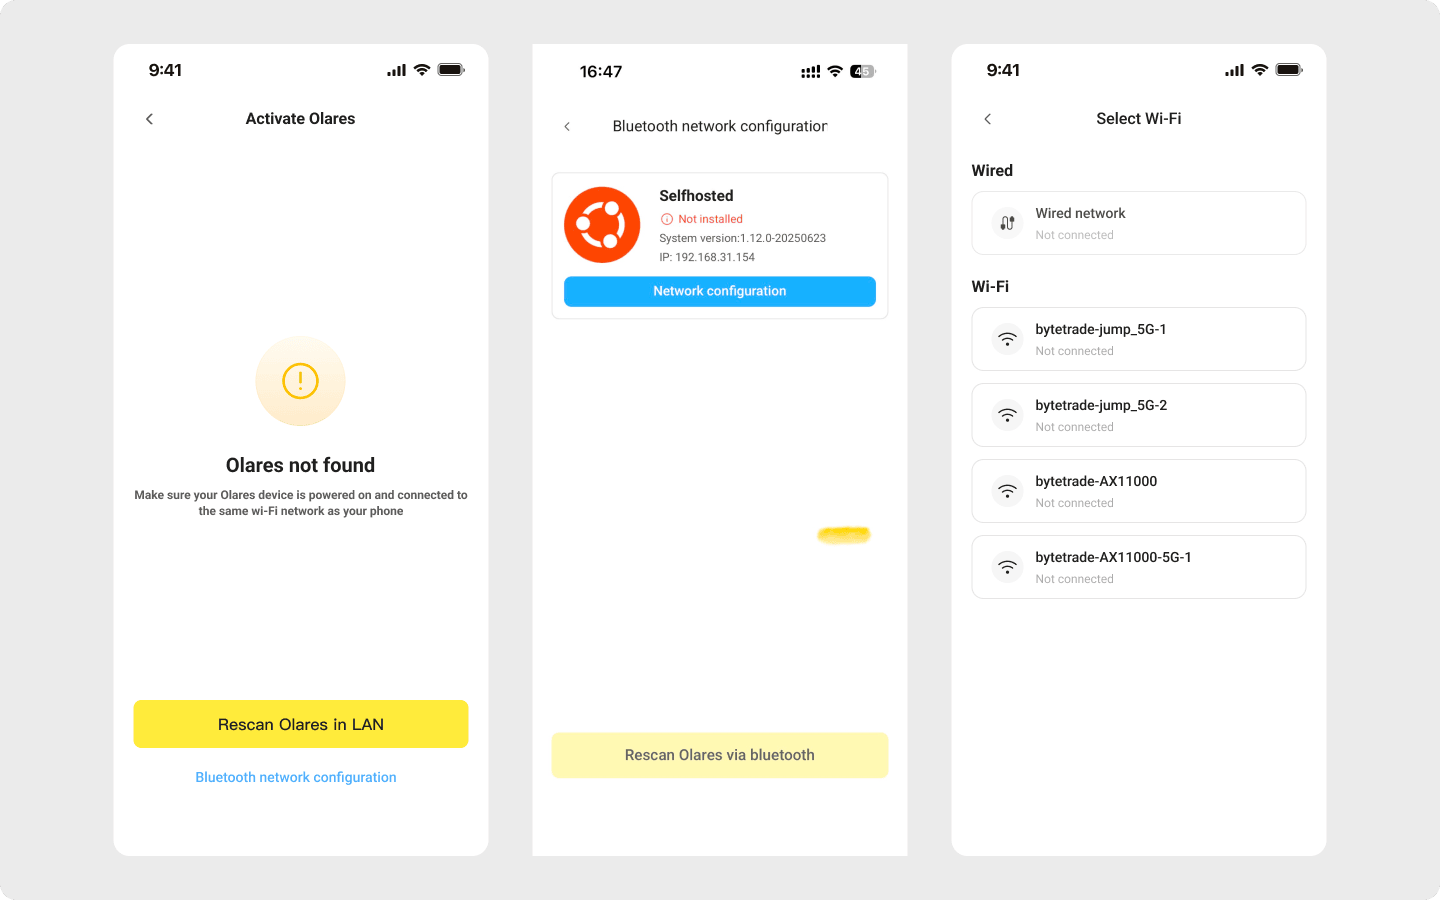
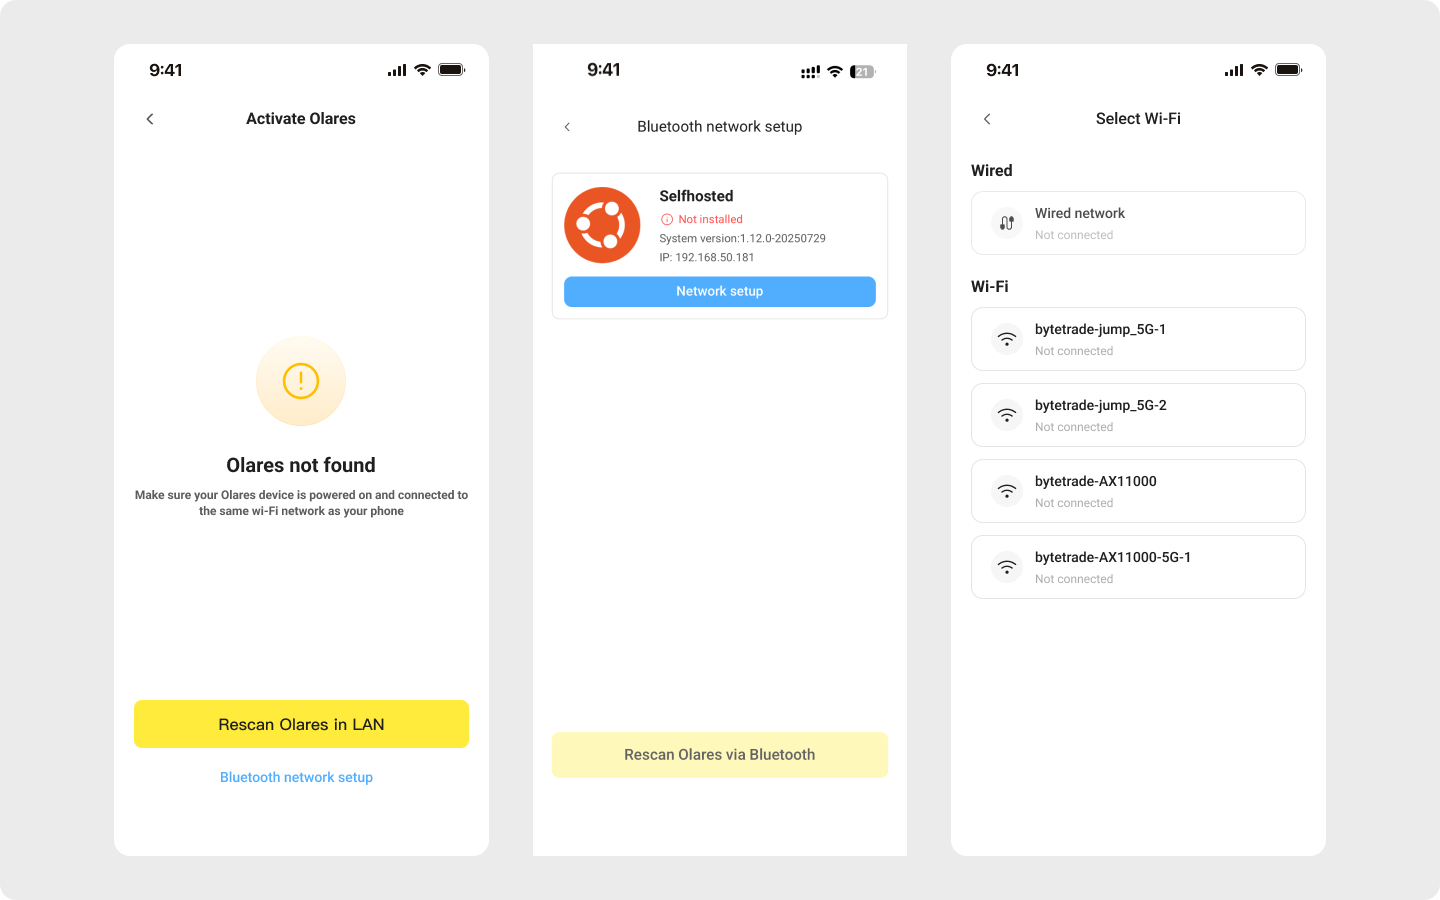
docs: batch update images and outdated info for Settings (#1649)
* docs: batch update images and outdated info for Settings

* fix links

diff --git a/docs/manual/olares/settings/remote-access.md b/docs/manual/olares/settings/remote-access.md
@@ -6,19 +6,7 @@ description: Learn how to configure VPN on Olares using Settings, covering VPN e
 
 The [LarePass VPN](../../larepass/private-network.md) provides secure remote access to your Olares device, even when you're on a different network or at a remote location. Olares' Settings app offers advanced configurations to tailor VPN access to your specific needs. Here, you can enforce VPN connections, enable SSH access over VPN, or route traffic through custom ports.
 
-## Enforce access using VPN
-
-To ensure that all traffic to your private Olares applications is encrypted and routed securely, you can enforce VPN access. This ensures that connections to your Olares always go through the LarePass VPN, regardless of the network or device used. Enabling this mode will block accesses to Olares via reverse proxy. 
-
-To enable the enforced VPN mode:
-
-1. Enable VPN connections on at least two devices using LarePass (typically a computer and a mobile phone) with LarePass installed. For detailed instructions, see [Enable VPN on LarePass](/manual/larepass/private-network.md).
-2. Open Settings app from the Dock or Launchpad.
-3. Click on your profile picture in the top-left corner, and scroll down to **Security** settings.
-4. Turn on the switch for **Enforce VPN access to private entrance**.
-
-When successful, you'll see a confirmation message at the bottom of the screen.
-
+![VPN](/images/manual/olares/vpn.png#bordered)
 
 ## Allow SSH connections via VPN
 This enables SSH access to your Olares device through the LarePass VPN, even when you are in a different network or working remotely.
@@ -26,12 +14,24 @@ This enables SSH access to your Olares device through the LarePass VPN, even whe
 1. Open the Settings app, and select **System** > **VPN**.
 2. Toggle on **Allow SSH Access via VPN**. Port **22** (SSH) is automatically added to the configuration.
 
-   ![SSH via VPN](/images/manual/olares/ssh-via-vpn.png#bordered)
 ## Allow subnet routing
 This feature allows you to access other devices in the same local network as your Olares through the VPN.
 
 1. Open the Settings app, and select **System** > **VPN**.
 2. Toggle on **Enable subnet routes**.
+
+## Enforce access using VPN
+
+To ensure that all traffic to your private Olares applications is encrypted and routed securely, you can enforce VPN access. This ensures that connections to your Olares always go through the LarePass VPN, regardless of the network or device used. Enabling this mode will block accesses to Olares via reverse proxy.
+
+To enable the enforced VPN mode:
+
+1. Enable VPN connections on at least two devices using LarePass (typically a computer and a mobile phone) with LarePass installed. For detailed instructions, see [Enable VPN on LarePass](/manual/larepass/private-network.md).
+2. In Olares, navigate to **Settings** > **VPN**.
+3. Toggle on **Enforce VPN access to private entrance**.
+
+When successful, you'll see a confirmation message at the bottom of the screen.
+
 
 ## Configure ACL rules for port access
 After enabling subnet routing, you can further configure ACL (Access Control List) rules to allow traffic to specific ports based on the services you want to access.
@@ -40,7 +40,5 @@ For example, to access a Windows server via Remote Desktop:
 1. Click <i class="material-symbols-outlined">add</i> to open the **Add ACL** dialog.
 2. Enter `3389` (default port for Remote Desktop Protocol), and click **Confirm**.
 3. Click **Apply** to apply changes.
-
-   ![Add ACL port](/images/manual/olares/add-acl-port.png#bordered)
 
 Now you can use Windows Remote Desktop to access the Windows server in the same LAN as Olares.

diff --git a/docs/zh/manual/olares/settings/remote-access.md b/docs/zh/manual/olares/settings/remote-access.md
@@ -6,17 +6,7 @@ description: 了解如何使用设置在 Olares 上配置 VPN，包括强制 VPN
 
 [LarePass 专用网络](../../larepass/private-network.md)为你的 Olares 提供安全的远程访问，即使您身处不同网络或远程位置。Olares 的设置应用为专用网络提供了高级配置，以满足你的特定需求。在这里，您可以强制应用使用专用网络连接、通过专用网络远程实现 SSH 访问，或通过自定义端口路由流量。
 
-## 强制使用专用网络
-
-为确保安全性，Olares 支持强制使用专用网络，这样会要求所有连接到 Olares 应用的流量均通过专用网络。打开此模式会禁用其他通过反向代理的外部访问流量。
-
-启用强制专用网络模式的方法：
-
-1. 先在两台设备的 LarePass 上（建议一台电脑和一部手机）上开启专用网络。参考[开启专用网络](../../larepass/private-network.md#在-larepass-中启用专用网络)。
-2. 打开设置应用，点击左上角的个人头像，滚动至安全设置。
-3. 打开强制通过 VPN 访问私有入口开关。
-
-启用成功后，屏幕底部会显示确认消息。
+![VPN](/images/zh/manual/olares/vpn.png#bordered)
 
 ## 允许通过专用网络建立 SSH 连接
 启用此功能后，即使在不同网络或远程工作时，也可以通过 LarePass 专用网络使用 SSH 访问 Olares 设备。
@@ -24,13 +14,23 @@ description: 了解如何使用设置在 Olares 上配置 VPN，包括强制 VPN
 1. 打开设置应用，选择**系统** > **VPN**。
 2. 开启**允许通过 VPN 进行 SSH 连接**。端口 **22**（SSH）会自动添加到配置中。
 
-   ![通过 VPN 使用 SSH](/images/zh/manual/tasks/ssh-via-vpn.png#bordered)
-
 ## 允许子网路由
 启用此功能后，你可以访问与 Olares 位于同一局域网的其他设备。
 
 1. 打开设置应用，选择**系统** > **VPN**。
 2. 开启**允许子网路由**。
+
+## 强制使用专用网络
+
+为确保安全性，Olares 支持强制使用专用网络，这样会要求所有连接到 Olares 应用的流量均通过专用网络。打开此模式会禁用其他通过反向代理的外部访问流量。
+
+启用强制专用网络模式的方法：
+
+1. 先在两台设备的 LarePass 上（建议一台电脑和一部手机）上开启专用网络。参考[开启专用网络](../../larepass/private-network.md#在-larepass-中启用专用网络)。
+2. 在 Olares 里，打开**设置** > **VPN**。
+3. 打开**强制通过 VPN 访问私有入口**开关。
+
+启用成功后，屏幕底部会显示确认消息。
 
 ## 配置端口访问的访问控制规则
 启用子网路由后，你可以通过配置访问控制列表（ACL）规则来允许访问特定端口，以便使用所需的网络服务。
@@ -39,7 +39,5 @@ description: 了解如何使用设置在 Olares 上配置 VPN，包括强制 VPN
 1. 点击 <i class="material-symbols-outlined">add</i> 打开**添加 ACL**对话框。
 2. 输入 `3389`（远程桌面协议的默认端口），然后点击**确认**。
 3. 点击**应用**使更改生效。
-
-   ![添加 ACL 端口](/images/zh/manual/tasks/add-acl-port.png#bordered)
 
 完成配置后，你就可以使用 Windows 远程桌面来访问与 Olares 位于同一局域网的 Windows 服务器了。

diff --git a/docs/manual/larepass/manage-olares.md b/docs/manual/larepass/manage-olares.md
@@ -78,22 +78,22 @@ If your Olares device moves to a different network:
 
 ### Set Wi-Fi via Bluetooth
 
-If you can't connect your Olares to a wired network during activation, or if Olares is on a different wired network than your phone, LarePass won't be able to find it. This can prevent you from completing activation or device management. In such cases, use the **Bluetooth network configuration** feature to connect your Olares to your phone's Wi-Fi network.
+If you can't connect your Olares to a wired network during activation, or if Olares is on a different wired network than your phone, LarePass won't be able to find it. This can prevent you from completing activation or device management. In such cases, use the **Bluetooth network setup** feature to connect your Olares to your phone's Wi-Fi network.
  ![Bluetooth network](/images/manual/larepass/bluetooth-network.png)
 
-1. On the **Olares not found** page, tap the **Bluetooth network configuration** option. LarePass will use your phone's Bluetooth to scan for the nearby Olares device that match your current Olares ID.
-2. When your device is found, tap **Network configuration**.
-3. From the list of wireless networks available to your Olares, tap the Wi-Fi network your phone is connected to. If it's password-protected, enter the password and tap **Confirm**.
+1. On the **Olares not found** page, tap the **Bluetooth network setup** option. LarePass will use your phone's Bluetooth to scan for the nearby Olares device.
+2. When your device appears in the list, tap **Network setup**.
+3. Select the Wi-Fi network your phone is currently connected to. If it's password-protected, enter the password and tap **Confirm**.
 
     ::: tip Note
-    If you select a Wi-Fi network different from your phone's, LarePass will still be unable to recognize your Olares device after it connects.
+    If you select a Wi-Fi network different from the one your phone is on, LarePass won't be able to detect your Olares device after it connects.
     :::
 
-4. Olares will begin the network switching process. You'll see a success message when it's complete. If you return to the Bluetooth network setup page, you'll see that Olares' IP address has changed to your phone's Wi-Fi subnet. 
+4. Olares will start switching the network.Once the process is complete, a success message will appear. If you return to the Bluetooth network setup page, you'll see that Olares' IP address has changed to your phone's Wi-Fi subnet. 
    ::: tip Note
    The process takes longer if your Olares was activated earlier as the network switch affects more services.
    :::
-5. Go back to the device scan page, and you will now be able to discover your Olares device. You can now proceed with [device activation](activate-olares.md) or device management as instructed in this document.
+5. Go back to the device scan page and tap **Discover nearby Olares** to find your device. You can now proceed with [device activation](activate-olares.md) or device management as instructed in this document.
 
 ## Uninstall Olares
 

diff --git a/docs/zh/manual/olares/settings/my-olares.md b/docs/zh/manual/olares/settings/my-olares.md
@@ -3,7 +3,7 @@ outline: [2, 3]
 description: 了解如何利用“我的 Olares”页面管理账户、设备、安全设置及网络访问策略。 
 ---
 
-# 账户与设备管理
+# 我的 Olares
 
 你可以通过设置中的**我的 Olares** 功能管理 Olares 账户、连接设备和安全策略。点击**设置**页面左上角的个人头像即可进入**我的 Olares**。
 
@@ -34,7 +34,7 @@ description: 了解如何利用“我的 Olares”页面管理账户、设备、
 
 ## 当前版本
 
-查看当前 Olares 系统的版本。如果提示有可用的新版本，请转至 LarePass 手机客户端**设置** > **Olares 管理**页面下完成系统升级。详细步骤请参考[升级 Olares](../../larepass/manage-olares.md#升级-olares)
+查看当前 Olares 系统的版本。如果提示有可用的新版本，请转至 LarePass 手机客户端**设置** > **Olares 管理**页面下完成系统升级。详细步骤请参考[升级 Olares](../../larepass/manage-olares.md#升级-olares)。
 
 ## 查看登录历史
 

diff --git a/docs/manual/olares/settings/set-up-hosts.md b/docs/manual/olares/settings/set-up-hosts.md
@@ -6,11 +6,11 @@ description: Configure and manage your Olares hosts file to customize domain nam
 The hosts file is a system configuration file that maps domain names to specific IP addresses. By editing this file, you can customize how Olares resolves domain names, bypass the default DNS resolution, and control access to certain websites or services.
 ## Add a host
 To add a new domain name and IP address mapping in Olares:
+![Add a host](/images/manual/olares/add-host.png#bordered)
 1. Open Settings, and go to **System** > **Hosts**.
 2. Select **Add hosts** in the top-right corner, and specify the domain name/IP address pair.
    - **Host name**: Enter the domain name you want to map (e.g., `example.com`).
    - **IP**: Enter the corresponding IP address (e.g., `93.184.216.34`).
-     ![Add a host](/images/manual/olares/add-host.png#bordered)
 3. Click **Confirm** to save the changes.
 
 :::info DNS cache delay

diff --git a/docs/zh/manual/olares/settings/integrations.md b/docs/zh/manual/olares/settings/integrations.md
@@ -21,14 +21,14 @@ OAuth 类型的集成以及 Olares Space 需在**LarePass**应用中完成连接
 
 Olares 支持手动配置 **AWS S3** 和**腾讯云 COS**：
 
-1. 进入**设置** > **集成**，点击右上角**+ 添加账户**。  
-2. 选择 **AWS S3** 或 **Tencent COS**，点击 **确认**。  
+1. 进入**设置** > **集成**，点击右上角**添加账户**。  
+2. 选择 **AWS S3** 或 **Tencent COS**，点击**确认**。  
 3. 在弹出的挂载对话框输入以下信息：  
    - **Access Key**  
    - **Secret Key**  
    - **Region**  
    - **Bucket name**  
-4. 点击 **下一步**。凭证验证通过后将显示成功提示。  
+4. 点击**下一步**。凭证验证通过后将显示成功提示。  
 
 配置完成后，挂载的存储服务将出现在**文件管理器**应用的**云存储**区域。
 

diff --git a/docs/manual/overview.md b/docs/manual/overview.md
@@ -28,7 +28,7 @@ Olares comprises the following core components:
 
 - [**Olares OS**](https://github.com/beclab/Olares): An open-source, self-hosted operating system that transforms edge devices into robust personal cloud.
 
-- [**LarePass**](./larepass): A secure, cross-platform client that bridges you and your Olares system. It provides seamless access, unified identity management, fast file synchronization, and comprehensive device management across all your devices.
+- [**LarePass**](./larepass/): A secure, cross-platform client that bridges you and your Olares system. It provides seamless access, unified identity management, fast file synchronization, and comprehensive device management across all your devices.
 
 ## Highlighted features
 

diff --git a/docs/zh/manual/overview.md b/docs/zh/manual/overview.md
@@ -28,7 +28,7 @@ Olares 由以下核心组件组成：
 
 - [**Olares OS**](https://github.com/beclab/Olares)：一个开源自主托管操作系统，可将边缘设备转化为强大的个人云。
 
-- [**LarePass**](./larepass)：一款安全的跨平台客户端，连接您与 Olares 系统。它提供无缝访问、统一身份管理、快速文件同步，以及强大的设备管理能力。
+- [**LarePass**](./larepass/)：一款安全的跨平台客户端，连接您与 Olares 系统。它提供无缝访问、统一身份管理、快速文件同步，以及强大的设备管理能力。
 
 ## 功能亮点
 

diff --git a/docs/zh/manual/olares/settings/change-frp.md b/docs/zh/manual/olares/settings/change-frp.md
@@ -16,7 +16,11 @@ Olares 提供三种反向代理选项，适用于不同地区与网络环境：
 
 ## 如何更改反向代理选项
 
-1. 打开设置，进入**系统** > **网络**页面。
+请按以下步骤变更反向代理：
+
+![变更反向代理](/images/zh/manual/olares/set-reverse-proxy.png#bordered)
+
+1. 打开设置，进入**网络** > **反向代理**。
 
 2. 选择你想使用的反向代理方式。如果选择**自建 FRP**，需填写服务器地址、端口和认证方式。
 
